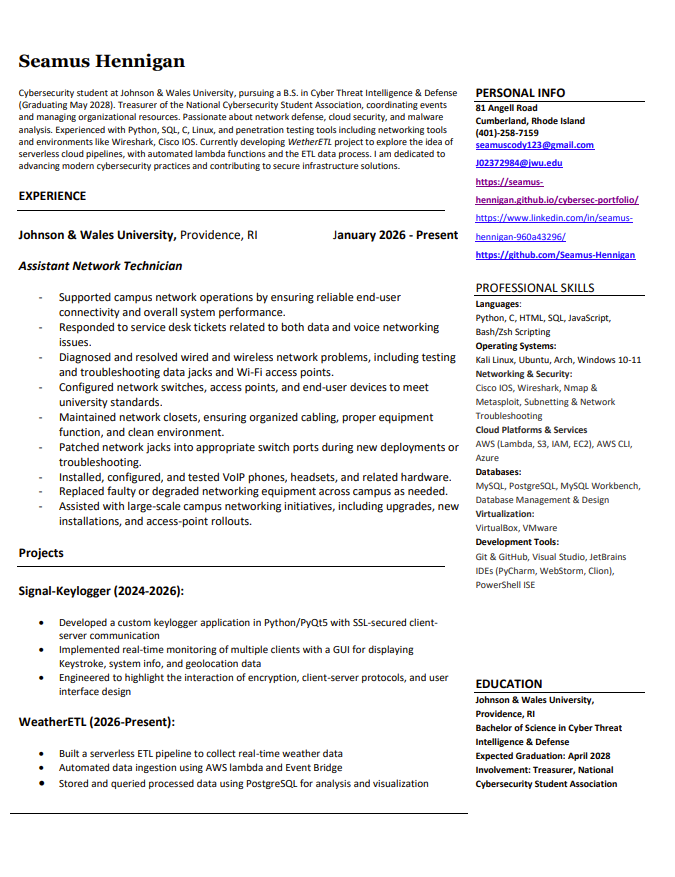
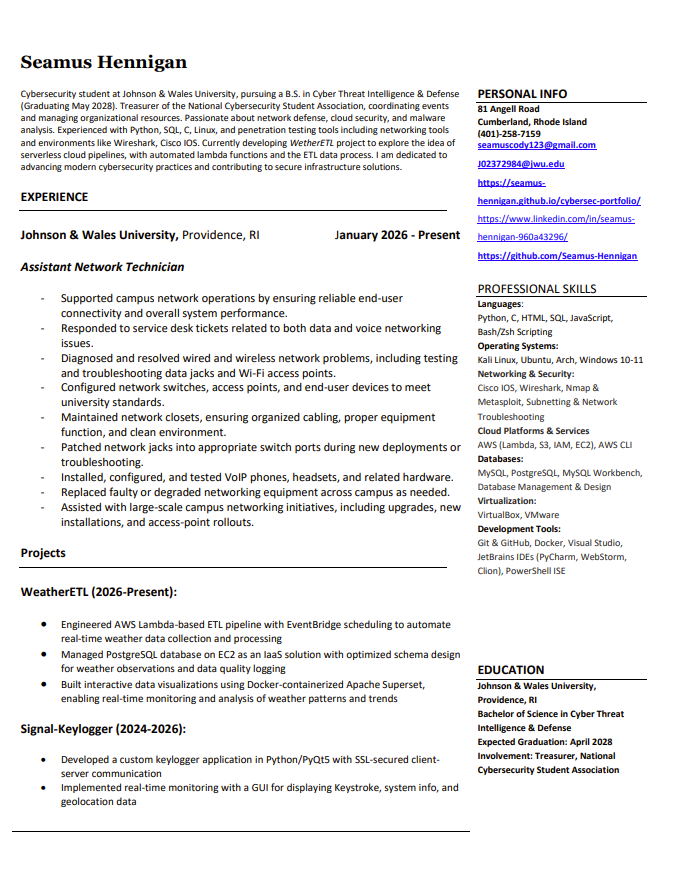
updated resume, and other things

Changed region(s): [[0.0311, 0.0616, 0.9644, 0.6773], [0.0311, 0.6157, 0.6844, 0.9236], [0.6844, 0.7389, 0.9333, 0.9236]]

diff --git a/index.html b/index.html
@@ -835,9 +835,8 @@
         <div class="skill-card">
             <h3>Cloud Platforms & Services</h3>
             <ul>
-                <li>Amazon Web Services (AWS): Lambda, S3, IAM</li>
+                <li>Amazon Web Services (AWS): Lambda, S3, IAM, EC2</li>
                 <li>AWS CLI</li>
-                <li>Microsoft Azure</li>
             </ul>
         </div>
         <div class="skill-card">
@@ -896,9 +895,8 @@
             <div class="skill-card">
                 <h3>Cloud Platforms & Services</h3>
                 <ul>
-                    <li>Amazon Web Services (AWS): Lambda, S3, IAM</li>
+                    <li>Amazon Web Services (AWS): Lambda, S3, IAM, EC2</li>
                     <li>AWS CLI</li>
-                    <li>Microsoft Azure</li>
                 </ul>
             </div>
             <div class="skill-card">
@@ -958,19 +956,19 @@
             <div class="project-content">
                 <h3>WeatherETL</h3>
                 <p>
-                    An automated, serverless weather data pipeline built on AWS that collects,
-                    processes, and visualizes real-time weather data from multiple cities worldwide.
-                    Demonstrates PaaS(Platform as a Service) cloud infrastructure/design and modern ETL data principles.
+                    End-to-end weather analytics platform leveraging AWS serverless functions (Lambda), self-managed PostgreSQL on EC2 (IaaS),
+                    and Docker-based Superset dashboards.
+                    Showcases cloud infrastructure design, containerization, ETL principles, and data visualization.
                 </p>
                 <div class="project-tags">
                     <span class="tag">AWS</span>
                     <span class="tag">Lambda</span>
                     <span class="tag">S3</span>
+                    <span class="tag">EC2</span>
                     <span class="tag">EventBridge</span>
                     <span class="tag">CloudWatch</span>
                     <span class="tag">IAM</span>
                     <span class="tag">API</span>
-                    <span class="tag">SQL</span>
                     <span class="tag">Docker</span>
                     <span class="tag">Python</span>
                     <span class="tag">PostgreSQL</span>
@@ -1018,19 +1016,19 @@
                 <div class="project-content">
                     <h3>WeatherETL</h3>
                     <p>
-                        An automated, serverless weather data pipeline built on AWS that collects,
-                        processes, and visualizes real-time weather data from multiple cities worldwide.
-                        Demonstrates end-to-end cloud infrastructure design and modern ETL principles.
+                        End-to-end weather analytics platform leveraging AWS serverless functions (Lambda), self-managed PostgreSQL on EC2 (IaaS),
+                        and Docker-based Superset dashboards.
+                        Showcases cloud infrastructure design, containerization, ETL principles, and data visualization.
                     </p>
                     <div class="project-tags">
                         <span class="tag">AWS</span>
                         <span class="tag">Lambda</span>
                         <span class="tag">S3</span>
+                        <span class="tag">EC2</span>
                         <span class="tag">EventBridge</span>
                         <span class="tag">CloudWatch</span>
                         <span class="tag">IAM</span>
                         <span class="tag">API</span>
-                        <span class="tag">SQL</span>
                         <span class="tag">Python</span>
                         <span class="tag">PostgreSQL</span>
                     </div>
@@ -1068,8 +1066,6 @@
                 <li>Replaced faulty or degraded networking equipment across campus as needed.</li>
                 <li>Assisted with large-scale campus networking initiatives, including upgrades, new installations, and access-point rollouts.</li>
             </ul>
-            <!-- Optional: Add a link to a project or university page -->
-            <!-- <a href="https://link-to-project-or-university" target="_blank">More Info →</a> -->
         </div>
     </div>
 </section>
